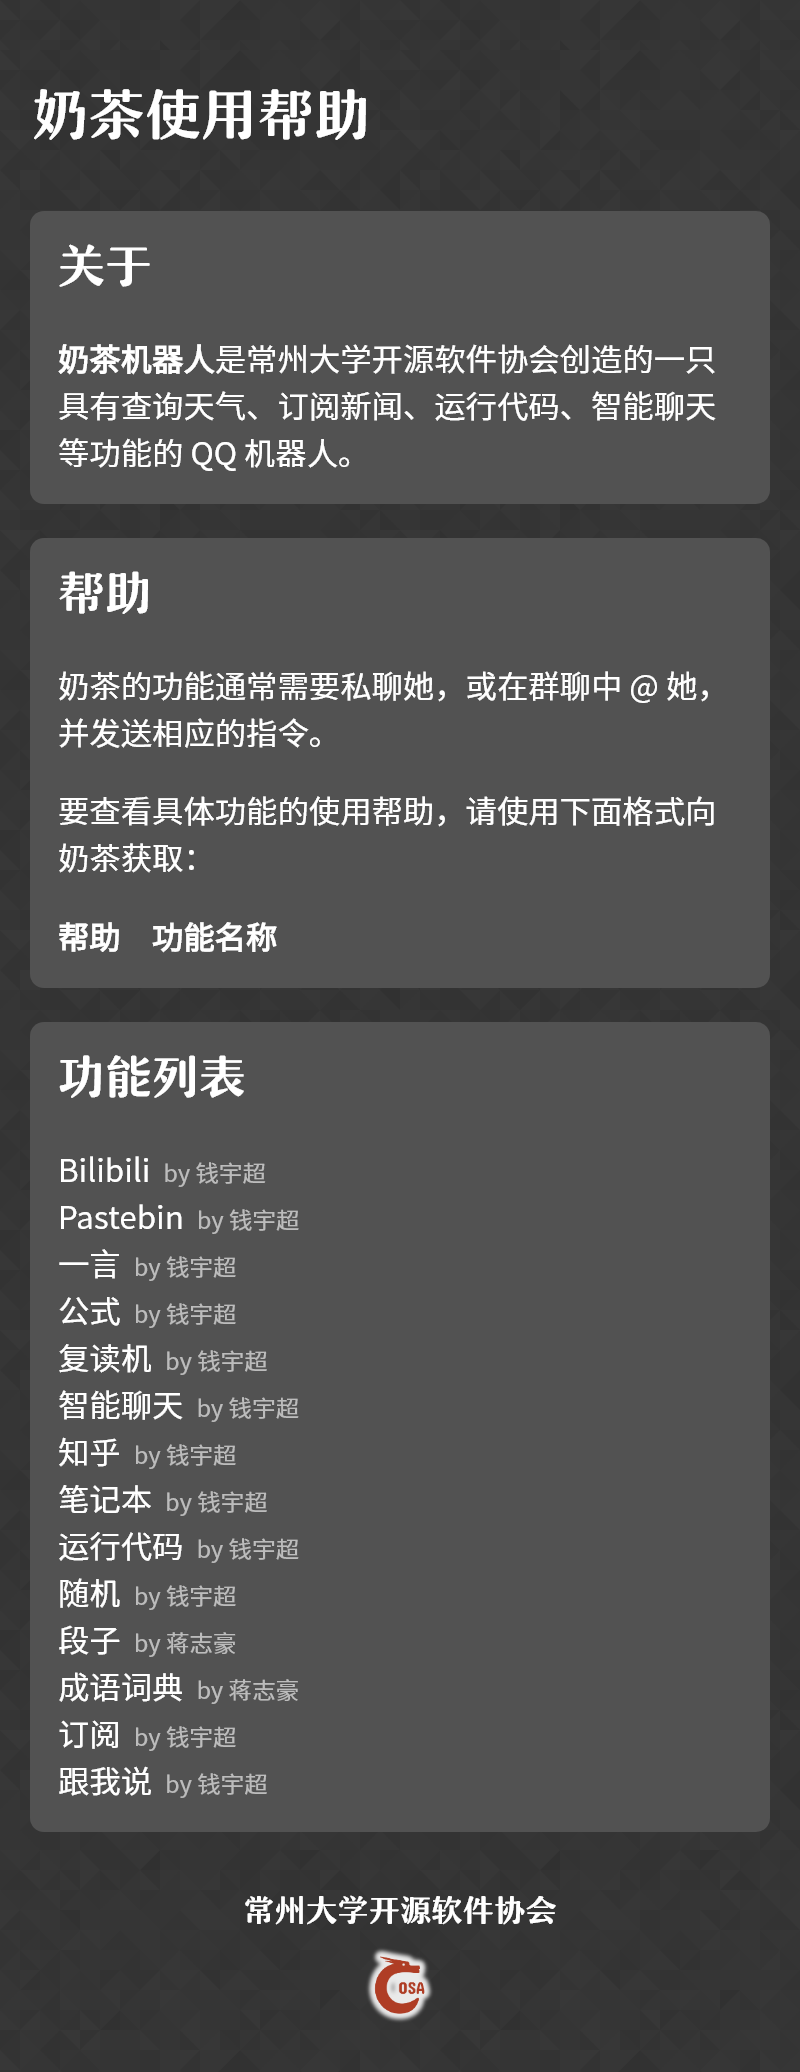
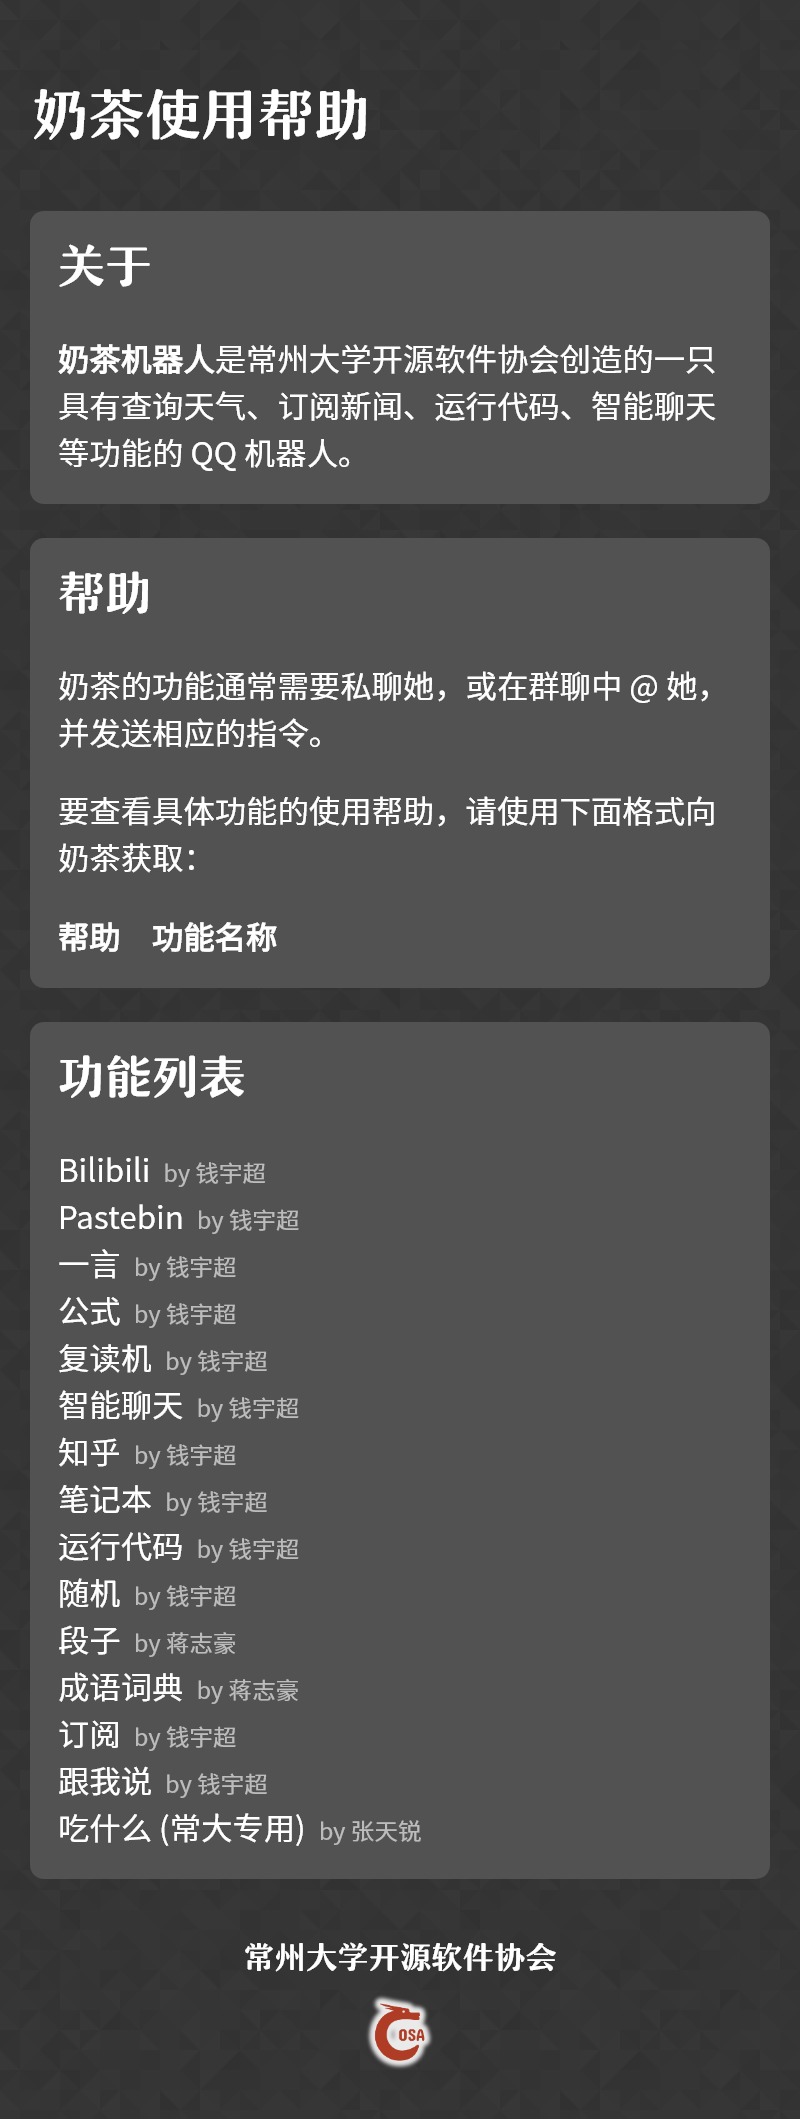
更新使用帮助

Changed region(s): [[0.0312, 0.0927, 0.9688, 0.9884], [0.0312, 0.0309, 0.4375, 0.0618]]

diff --git a/manual/吃什么.html b/manual/吃什么.html
@@ -1,0 +1,71 @@
+<h1>吃什么</h1>
+
+<section>
+  <h2>说明</h2>
+  <p>
+    本功能用于让奶茶推荐去哪里吃饭，仅限常州大学武进校区使用。
+  </p>
+</section>
+
+<section>
+  <h2>示例</h2>
+  <div class="bubble-wrapper right">
+    <div class="bubble">
+      <p>
+        中午吃啥
+      </p>
+    </div>
+  </div>
+  <div class="bubble-wrapper left">
+    <div class="bubble">
+      <p>
+        等等啊，容奶茶思考片刻，去哪儿呢🙄
+      </p>
+    </div>
+  </div>
+  <div class="bubble-wrapper left">
+    <div class="bubble">
+      <p>
+        去一食堂吧，怎样？
+      </p>
+    </div>
+  </div>
+  <div class="bubble-wrapper right">
+    <div class="bubble">
+      <p>
+        可以
+      </p>
+    </div>
+  </div>
+  <div class="bubble-wrapper left">
+    <div class="bubble">
+      <p>
+        需要我帮你决定吃点什么吗
+      </p>
+    </div>
+  </div>
+  <div class="bubble-wrapper right">
+    <div class="bubble">
+      <p>
+        嗯
+      </p>
+    </div>
+  </div>
+  <div class="bubble-wrapper left">
+    <div class="bubble">
+      <p>
+        经奶茶精选，今天砂锅与你更配哦🤔
+      </p>
+    </div>
+  </div>
+</section>
+
+<section class="bg-color-3">
+  <h2>触发机制</h2>
+  <p>
+    通过关键词「吃什么」「去哪吃」等可以触发本功能。
+  </p>
+</section>
+
+<link rel="stylesheet" href="css/style.css">
+<script src="js/genpage.js"></script>

diff --git a/manual/index.html b/manual/index.html
@@ -35,6 +35,7 @@
     成语词典 <span class="author">by 蒋志豪</span><br>
     订阅 <span class="author">by 钱宇超</span><br>
     跟我说 <span class="author">by 钱宇超</span><br>
+    吃什么 (常大专用) <span class="author">by 张天锐</span><br>
   </p>
 </section>
 
